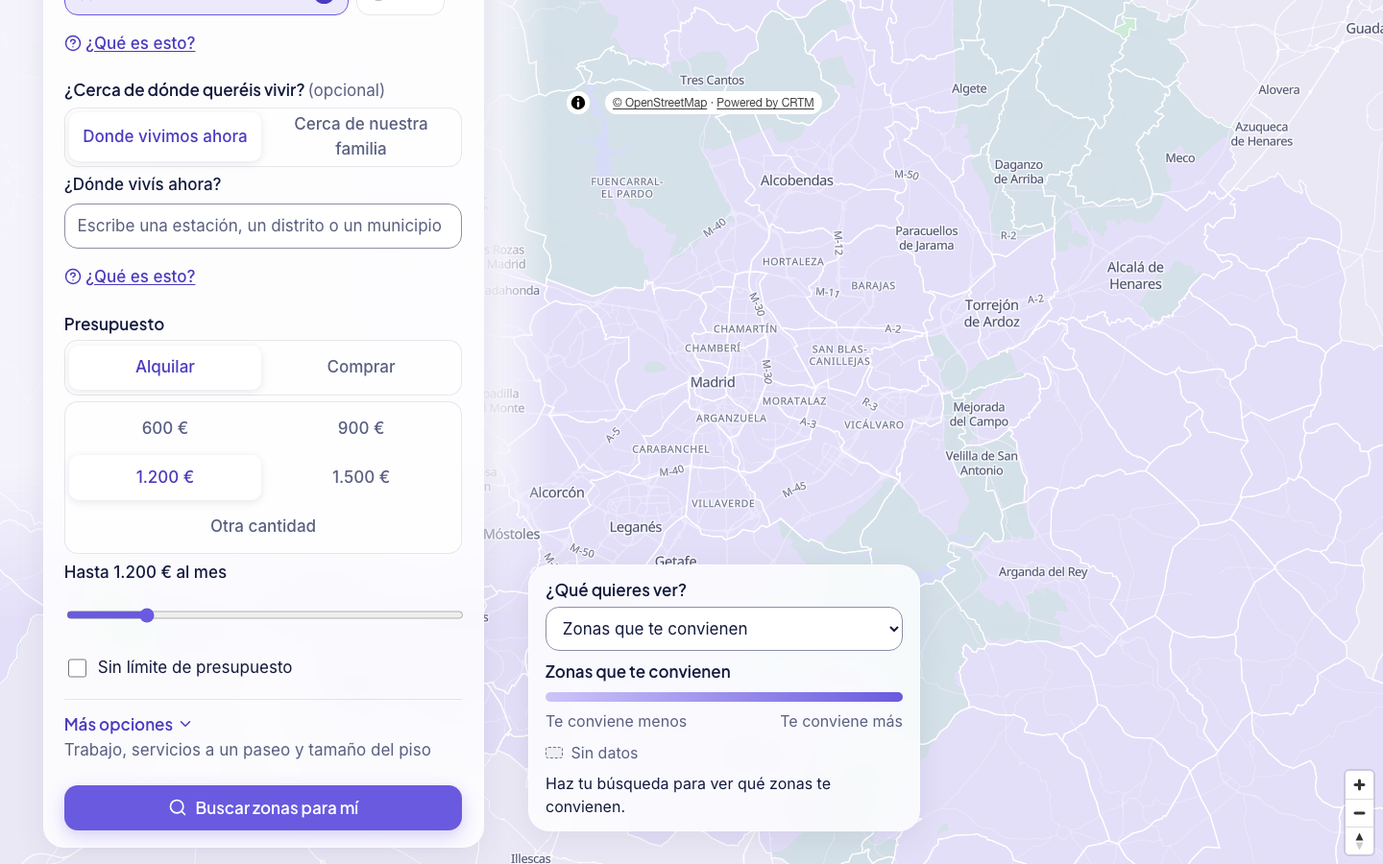
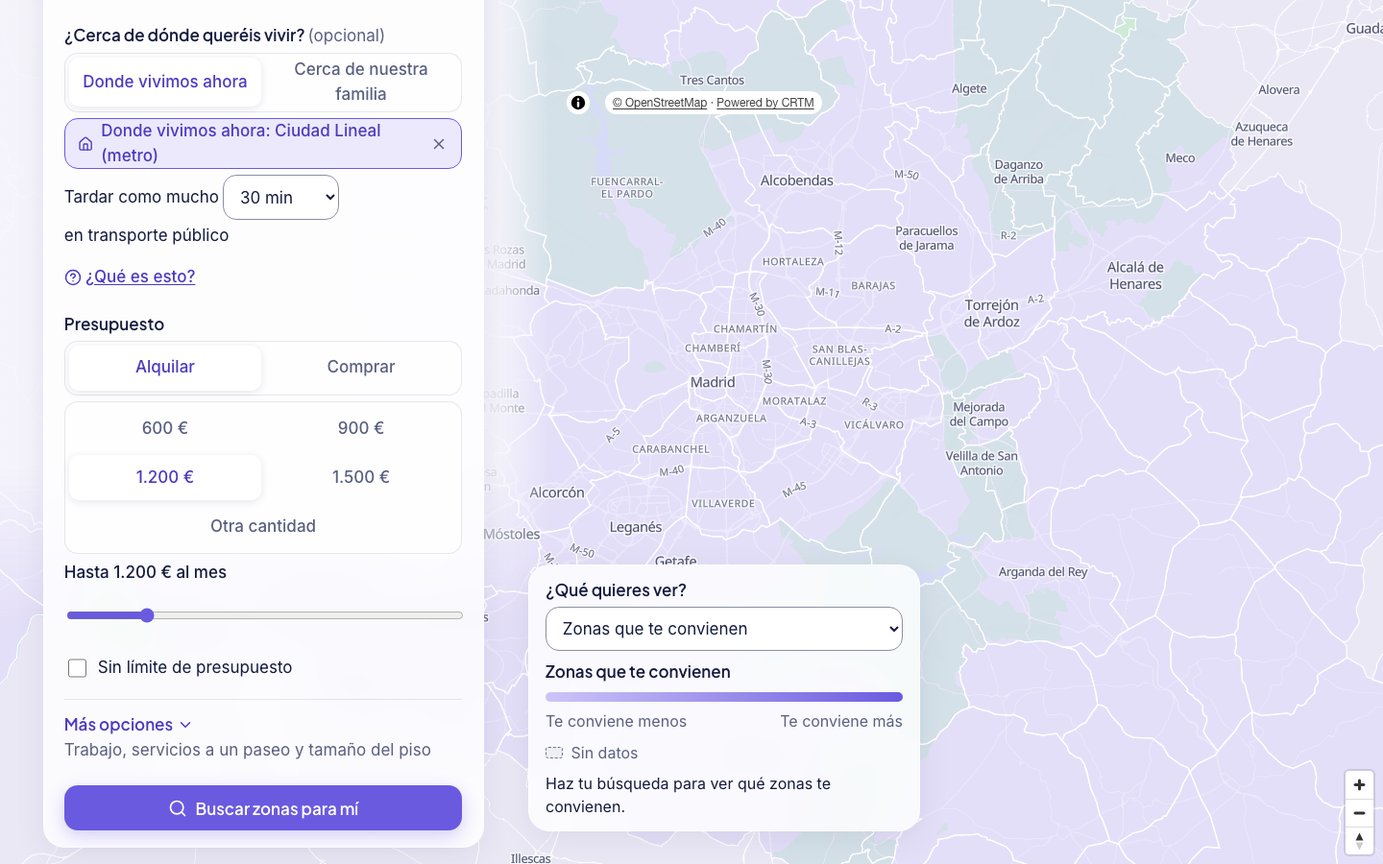
Confirmation review of #79 (H1-H7): «Somos mayores» unmarked cleanly, the card by the search
- H1: unmarking «Somos mayores» takes «donde vivimos ahora» (the `other` place only this flow
  makes) away, so it never filters unseen; a family place, Madrid capital and the three
  priorities stay, in view. Tests.
- H2, H3: a family place keeps its station's name through a change of option and a new mount;
  removing the place keeps the option.
- H4: J5 checks what the person sees: «Somos mayores» marked, «¿Cerca de dónde queréis vivir?»
  with «Ciudad Lineal (metro)» and «Trabajo en» folded.
- H5: the card orders its rows by the household of the search, the one the list answers to.
- H6: check-ux-mobile.mjs measures the «Somos mayores» form with a place picked, with axe.
- H7: «donde vivimos ahora» in lower case, as the API says it mid-sentence; the two option
  groups no longer repeat their question; D-244 says what unmarking keeps and takes away.

e2e 86/86 and 62/62 against the build, axe 0, 0 texts under 16 px and 0 targets under 44 px
at 390 and 360 px, golden 10/10.

diff --git a/apps/web/src/components/search/PlaceField.tsx b/apps/web/src/components/search/PlaceField.tsx
@@ -49,6 +49,8 @@ const TEXT = {
   // lugar.* (D-244): «Somos mayores» is asked where they want to live, in place of «Trabajo en»
   older: {
     title: "¿Cerca de dónde queréis vivir?",
+    // The name of the two options, not the question again (review H7 of PR #79)
+    which: "Vuestra casa de ahora o vuestra familia",
     options: { other: "Donde vivimos ahora", family: "Cerca de nuestra familia" } satisfies Record<OlderPlaceKind, string>,
     search: { other: "¿Dónde vivís ahora?", family: "¿Dónde vive vuestra familia?" } satisfies Record<OlderPlaceKind, string>,
     help: "Miramos cuánto se tarda en transporte público hasta ese sitio, llegando a las 9:00 de un día laborable, y contamos el trayecto como si fuerais 3 días a la semana. Ponemos 30 min como mucho: puedes cambiarlo o quitarlo.",
@@ -176,10 +178,14 @@ interface PickedProps {
   onRemove: () => void;
 }
 
+/** «donde vivimos ahora», the label the API puts inside a sentence, at the start of its own line. */
+const capitalised = (text: string) => text.charAt(0).toUpperCase() + text.slice(1);
+
 /** The place picked, with its selectors: the days (work only) and its limit, which applies whatever the days. */
 function PickedPlace({ kind, anchor, placeName, removeRef, onRemove }: PickedProps) {
   const Icon = KINDS[kind].icon;
-  const name = placeName && placeName !== anchor.label ? `${anchor.label}: ${placeName}` : anchor.label;
+  const label = capitalised(anchor.label);
+  const name = placeName && placeName !== anchor.label ? `${label}: ${placeName}` : label;
   return (
     <>
       <p className={styles.place}>
@@ -378,8 +384,11 @@ export function OlderPlaceField({ stationList, id: fieldId }: { stationList: Sta
   // Which of the two before a place is picked; then, the kind of the place
   const [chosen, setChosen] = useState<OlderPlaceKind>("other");
   const kind = current?.kind ?? chosen;
-  // The name of the place picked, kept to show it beside «Donde vivimos ahora» and to name the family's
-  const [placeName, setPlaceName] = useState<string | null>(null);
+  // The name of the place picked, to show it beside «Donde vivimos ahora» and to name the family's.
+  // A family place carries it as its label, so it survives a change of option, a new mount and the
+  // example (review H2 of PR #79); the field only has to remember it for «Donde vivimos ahora»
+  const [pickedName, setPickedName] = useState<string | null>(null);
+  const placeName = current?.kind === "family" ? current.anchor.label : pickedName;
   const { input, remove, focusNext } = useSwapFocus(current?.anchor ?? null);
 
   return (
@@ -388,11 +397,12 @@ export function OlderPlaceField({ stationList, id: fieldId }: { stationList: Sta
         {TEXT.older.title} <span className={styles.optional}>{TEXT.optional}</span>
       </legend>
       <Segmented
-        legend={TEXT.older.title}
+        legend={TEXT.older.which}
         value={kind}
         options={(["other", "family"] as const).map((value) => ({ value, label: TEXT.older.options[value] }))}
         onChange={(next) => {
           setChosen(next);
+          setPickedName(placeName);
           if (current) update((s) => setOlderPlaceKind(s, next, placeName ?? TEXT.older.family));
         }}
       />
@@ -404,8 +414,10 @@ export function OlderPlaceField({ stationList, id: fieldId }: { stationList: Sta
           removeRef={remove}
           onRemove={() => {
             focusNext("input");
-            setPlaceName(null);
-            update((s) => setOlderPlace(s, kind, null));
+            // The option stays where it was (review H3 of PR #79)
+            setChosen(current.kind);
+            setPickedName(null);
+            update((s) => setOlderPlace(s, current.kind, null));
           }}
         />
       ) : (
@@ -421,7 +433,7 @@ export function OlderPlaceField({ stationList, id: fieldId }: { stationList: Sta
             inputRef={input}
             onPick={(place) => {
               focusNext("remove");
-              setPlaceName(place.label);
+              setPickedName(place.label);
               update((s) => setOlderPlace(s, kind, place));
             }}
           />

diff --git a/apps/web/src/lib/__tests__/scenario.test.ts b/apps/web/src/lib/__tests__/scenario.test.ts
@@ -510,14 +510,27 @@ describe("«Somos mayores» (D-244)", () => {
     expect("seniors" in (back.household ?? {})).toBe(false);
     expect(back.household).toEqual(defaultScenario().household);
     expect(back.priorities).toEqual(["salud", "sin_escaleras", "transporte"]);
+    expect(back.scope).toBe("madrid");
     expect(isOlderHousehold(defaultScenario())).toBe(false);
+  });
+
+  // Review H1 of PR #79: no field shows «Donde vivimos ahora» without «Somos mayores», so it must not filter unseen
+  it("unmarked, takes «Donde vivimos ahora» away and keeps a family place and a work place, which other fields show", () => {
+    const station = { label: "Ciudad Lineal (metro)", lon: -3.63816, lat: 40.43805 };
+    const home = setOlderPlace(setOlderHousehold(setAdults(defaultScenario(), 2), true), "other", station);
+    expect(setOlderHousehold(home, false).anchors).toEqual([]);
+    const family = setOlderPlace(setOlderHousehold(defaultScenario(), true), "family", station);
+    expect(setOlderHousehold(family, false).anchors?.map((a) => a.kind)).toEqual(["family"]);
+    const working = setPlace(home, "work", station);
+    expect(setOlderHousehold(working, false).anchors?.map((a) => a.kind)).toEqual(["work"]);
   });
 
   it("asks where they want to live: where they live now (never its own name) or near their family, 30 min and 3 days", () => {
     const station = { label: "Ciudad Lineal (metro)", lon: -3.63816, lat: 40.43805 };
     const home = setOlderPlace(defaultScenario(), "other", station);
     expect(olderPlace(home)).toEqual({ kind: "other", anchor: { kind: "other", label: HOME_LABEL, lon: station.lon, lat: station.lat, max_minutes: 30, days_per_week: 3 } });
-    expect(HOME_LABEL).toBe("Donde vivimos ahora");
+    // Lower case: the API says it inside a sentence («… hasta donde vivimos ahora, llegando a las 9:00»)
+    expect(HOME_LABEL).toBe("donde vivimos ahora");
     const family = setOlderPlace(home, "family", station);
     expect(family.anchors).toEqual([{ kind: "family", label: "Ciudad Lineal (metro)", lon: station.lon, lat: station.lat, ...OLDER_TRIP }]);
     // One place: the other kind takes the same point, and keeps a limit the person changed

diff --git a/apps/web/src/lib/scenario.ts b/apps/web/src/lib/scenario.ts
@@ -104,13 +104,16 @@ export const OLDER_PRIORITIES: readonly PriorityKey[] = ["salud", "sin_escaleras
  * looked after, `seniors_in_care`). Marked, OLDER_PRIORITIES join what matters, after what was
  * already marked, and a search of the whole region with no place to go starts in Madrid capital
  * (without a place, small well-served villages would come first, D-243 §13). Unmarked, the field
- * leaves the scenario, as it was before; what it marked stays, in view, for the person to change.
+ * leaves the scenario, as it was before, and so does «Donde vivimos ahora» (an `other` place only
+ * this flow makes, which no field shows without it: it would filter unseen, review H1 of PR #79).
+ * What stays, in view for the person to change: Madrid capital, what it marked and a family place,
+ * which «Más opciones» shows.
  */
 export function setOlderHousehold(s: ScenarioState, on: boolean): ScenarioState {
   const home = { ...household(s) };
   if (!on) {
     delete home.seniors;
-    return { ...s, household: home };
+    return { ...s, household: home, anchors: (s.anchors ?? []).filter((a) => kindOf(a) !== "other") };
   }
   const priorities = s.priorities ?? [];
   const older: ScenarioState = {
@@ -435,7 +438,8 @@ export function retiredExampleScenario(): ScenarioState {
  * a place they go to often.
  */
 export type OlderPlaceKind = "other" | "family";
-export const HOME_LABEL = "Donde vivimos ahora";
+/** Lower case: the API says it inside a sentence («27 min en transporte público hasta donde vivimos ahora…», H7) */
+export const HOME_LABEL = "donde vivimos ahora";
 export const OLDER_TRIP = { max_minutes: 30, days_per_week: 3 } as const;
 
 /** The place of «¿Cerca de dónde queréis vivir?», if the search has one. */

diff --git a/apps/web/src/components/zone/ZoneCard.tsx b/apps/web/src/components/zone/ZoneCard.tsx
@@ -90,7 +90,7 @@ function statusLines(rows: readonly RowStatus[]): [string, string][] {
 export default function ZoneCard({ zone, mode, onClose }: Props) {
   const { level, code, name, municipio_name, zone_key } = zone;
   const titleId = useId();
-  const { result, available, stale, scenario } = useScenario();
+  const { result, available, stale } = useScenario();
   const isBarrio = level === "barrio";
   const gapsOf = screenZone(zone);
   const gaps = useZoneGaps(gapsOf.level, gapsOf.code);
@@ -102,8 +102,9 @@ export default function ZoneCard({ zone, mode, onClose }: Props) {
   // D-234: the approximate price, in the head; none without a price (the search's notice says why)
   const price = result ? zonePriceOf(result, zone_key) : null;
   const rows = gaps.data?.data.rows ?? [];
-  // The three rows in view: what matters to the household first, then what is missing (D-244, review of PR #79)
-  const shown = topRows(rows, 3, scenario.household);
+  // The three rows in view: what matters to the household of the search first, the one the list
+  // answers to, then what is missing (D-244, review H5 of PR #79); before a search, by status
+  const shown = topRows(rows, 3, result?.scenario.household ?? null);
   // A zone that fits everything asked, with FALTA or JUSTO rows: one line says both are true, with
   // every such row of the API, also those beyond the three the card shows. Not for a barrio: its
   // rows are the whole district's, and the line says «aquí»

diff --git a/apps/web/src/components/search/BudgetField.tsx b/apps/web/src/components/search/BudgetField.tsx
@@ -14,6 +14,8 @@ import styles from "./SearchCard.module.css";
 // Copy from pitch/textos_web.md (presupuesto.*)
 const TEXT = {
   title: "Presupuesto",
+  // The two options' own name, not «Presupuesto» again (review H7 of PR #79)
+  kind: "¿Alquilar o comprar?",
   rent: "Alquilar",
   buy: "Comprar",
   indicative: "Orientativo",
@@ -75,7 +77,7 @@ export default function BudgetField({ available }: { available: boolean }) {
     <fieldset className={styles.group}>
       <legend>{TEXT.title}</legend>
       <Segmented
-        legend={TEXT.title}
+        legend={TEXT.kind}
         value={budget?.kind ?? null}
         options={[
           { value: "rent", label: TEXT.rent },

diff --git a/docs/00_index/01_decisions_log.md b/docs/00_index/01_decisions_log.md
@@ -1979,19 +1979,20 @@ Prueba en persona del 15 nov con una persona mayor, en el móvil: «difícil de 
 1. **Qué es.** `Household.seniors: bool = False`, «Every adult is 65+ («Somos mayores»)». Dice quiénes son los adultos del hogar (1 o 2 personas de 65 años o más). **No suma personas:** el hogar sigue siendo el de «Solo/a» o «En pareja», con sus m² (D-214: 61 o 68 m²). Es distinto de `seniors_in_care`, que sí cuenta a una persona mayor que vive con el hogar y a la que se cuida («Con una persona mayor a la que cuidas»).
 2. **El flujo de la web** («Somos mayores» es un botón más de «¿Quién va a vivir en la casa?», con la línea «Para personas de 65 años o más. Elige también si vives solo/a o en pareja.»). Al marcarlo:
    - **Lugar.** En lugar de «Trabajo en», el formulario pregunta, a la vista y no plegado, «¿Cerca de dónde queréis vivir? (opcional)», con dos opciones y el mismo buscador de sitios que el trabajo:
-     - «Donde vivimos ahora»: un lugar `kind: other` con la etiqueta «Donde vivimos ahora», nunca el nombre del sitio elegido;
+     - «Donde vivimos ahora»: un lugar `kind: other` con la etiqueta «donde vivimos ahora», en minúscula porque la API la dice a media frase («27 min en transporte público hasta donde vivimos ahora, llegando a las 9:00»), y nunca el nombre del sitio elegido;
      - «Cerca de nuestra familia»: un lugar `kind: family` con el nombre del sitio.
      Va con `max_minutes: 30` («Tardar como mucho», que se puede cambiar o quitar) y `days_per_week: 3`, así que el trayecto pesa como el de un sitio al que se va a menudo y los topes de D-243 se cuentan sobre esos 30 min. «Trabajo en» pasa, plegado, a «Más opciones», y «Cerca de mi familia o amigos» no sale (la familia ya está en la pregunta).
    - **Ámbito por defecto.** Si no hay ningún sitio y «¿Dónde?» está en «Toda la Comunidad», pasa a «Madrid capital» (`scope: madrid`). Se puede cambiar, y nunca pisa una elección. Sin sitio, en toda la Comunidad salían arriba pueblos pequeños bien dotados (D-243 §13: con el ejemplo anterior, 155 zonas y Anchuelo y Morata de Tajuña al 98 %).
    - **Preelegidos,** detrás de lo que ya hubiera y en este orden: «Centro de salud» (`salud`), «Metro o tren sin escaleras» (`sin_escaleras`) y «Transporte» (`transporte`). Todos se pueden quitar.
    - **Sin aviso de trabajo:** la lista no enseña «¿Trabajas fuera de casa? Dinos dónde…» (`resultados.sin_lugar`), y el aviso de empate dice «… o elige cerca de dónde queréis vivir…» en lugar de «… o dónde trabajas…».
-   - **Tarjeta (R-01, y la regla de «lo que le falta que le afecte» de la entrega 2, adelantada por Mariano).** «Lo que le falta a esta zona» enseña primero las filas que importan al hogar, sea cual sea su estado, y después el estado (`householdRows` y `topRows` en `lib/gaps.ts`, con el hogar del formulario). Las filas del hogar son las de `highlight_rows` (el `gap_highlights` de `/search`), sin la de vivienda: escuela infantil con un hijo de 0 a 2 años (o sin edades), colegio con hijos, centro de salud y farmacia siempre, y centros de mayores con `seniors` o `seniors_in_care`. Entre ellas va primero lo que falta (FALTA, luego JUSTO) y después el orden del hogar; una «No comparable» del hogar va antes que cualquier otra fila y se enseña tal cual. Las demás filas solo rellenan si quedan menos de 3 del hogar con dato, por estado, y las de niños nunca rellenan en un hogar sin hijos. Vale para todos los hogares. Así, en Barajas, la 1.ª del ejemplo, una pareja jubilada ve centro de salud (No comparable), farmacias (CUBIERTO) y centros de mayores (No comparable), y no «Colegios · JUSTO» ni escuelas infantiles; una familia con un bebé sigue viendo arriba la escuela infantil; y una pareja sin hijos no la ve aunque sea la FALTA de la zona. La lista completa sigue en «Ver todo lo que falta». En el dominio, `highlight_rows` pone los centros de mayores delante con `seniors`; la tarjeta usa la misma regla, pero ordena las filas de `/gaps` de cualquier zona, también las que no están en la lista.
+   - **Tarjeta (R-01, y la regla de «lo que le falta que le afecte» de la entrega 2, adelantada por Mariano).** «Lo que le falta a esta zona» enseña primero las filas que importan al hogar, sea cual sea su estado, y después el estado (`householdRows` y `topRows` en `lib/gaps.ts`, con el hogar de la búsqueda, `result.scenario.household`, para que la tarjeta y la lista respondan al mismo hogar; antes de buscar, por estado, como siempre). Las filas del hogar son las de `highlight_rows` (el `gap_highlights` de `/search`), sin la de vivienda: escuela infantil con un hijo de 0 a 2 años (o sin edades), colegio con hijos, centro de salud y farmacia siempre, y centros de mayores con `seniors` o `seniors_in_care`. Entre ellas va primero lo que falta (FALTA, luego JUSTO) y después el orden del hogar; una «No comparable» del hogar va antes que cualquier otra fila y se enseña tal cual. Las demás filas solo rellenan si quedan menos de 3 del hogar con dato, por estado, y las de niños nunca rellenan en un hogar sin hijos. Vale para todos los hogares. Así, en Barajas, la 1.ª del ejemplo, una pareja jubilada ve centro de salud (No comparable), farmacias (CUBIERTO) y centros de mayores (No comparable), y no «Colegios · JUSTO» ni escuelas infantiles; una familia con un bebé sigue viendo arriba la escuela infantil; y una pareja sin hijos no la ve aunque sea la FALTA de la zona. La lista completa sigue en «Ver todo lo que falta». En el dominio, `highlight_rows` pone los centros de mayores delante con `seniors`; la tarjeta usa la misma regla, pero ordena las filas de `/gaps` de cualquier zona, también las que no están en la lista.
+   - **Al desmarcarlo** se quitan `seniors` y el lugar «donde vivimos ahora» (`kind: other`, que solo crea este flujo y que ningún campo enseña sin «Somos mayores»: filtraría sin verse, revisión H1 del PR #79). Se quedan, a la vista y para que la persona los cambie: «Madrid capital», las tres prioridades y un lugar de la familia, que pasa a «Cerca de mi familia o amigos» en «Más opciones».
    - **Ejemplo de la portada:** «Ejemplo: pareja jubilada que quiere vivir cerca de su familia»: 2 personas, «Somos mayores», alquiler hasta 1.200 € al mes, «Cerca de nuestra familia» en Ciudad Lineal (la estación de metro de `/api/v1/places`, un sitio público; nunca una dirección particular), 30 min como mucho, 3 días, «Madrid capital» y los tres preelegidos. Con la API `fit-0.9` sobre `housing` (15 nov, solo lectura) salen **22 de los 131 barrios**, de Alameda de Osuna y Casco Histórico de Barajas (92 %) a Ventas, Pueblo Nuevo, Quintana y San Pascual (89 %), Arcos y Rosas (87 %)…; lo que más limita es el trayecto, y «Sin límite de tiempo hasta Ciudad Lineal (metro)» añade 62.
 3. **Qué no hace.**
    - No cambia el % ni el orden por sí solo: ningún criterio ni condición lee el campo. Un test lo comprueba: la misma búsqueda con y sin `seniors` da las mismas zonas, los mismos % y los mismos recuentos de «¿Quieres ver más zonas?». Lo que cambia los resultados es lo que el flujo marca (el sitio, el ámbito y las prioridades), y todo se ve y se puede cambiar en el formulario.
    - No cambia los m², el precio ni los hechos de la tarjeta.
    - No marca la farmacia ni «Lo quiero a un paseo»: «¿Qué quieres tener cerca?» no tiene farmacia y un servicio a un paseo entra como «Solo zonas que lo tengan», es decir, como filtro. Que la farmacia ordene o filtre es una decisión aparte (auditoría, opción 3).
    - No es una etiqueta sobre la persona ni infiere nada de ella (CLAUDE.md §13): es una respuesta que la persona da y puede quitar. «Donde vivimos ahora» no se guarda ni se envía con nombre.
-4. **Contrato.** Aditivo: una búsqueda guardada o compartida antes significa lo mismo (`seniors: false`). La respuesta de `/search` lo devuelve dentro de `scenario`. Una API anterior rechaza el campo (`extra="forbid"`): la web y la API van en el mismo despliegue, como siempre. `kind: other` ya existía en `AnchorKind`.
+4. **Contrato.** Aditivo (el ejemplo y el lugar usan `kind: family` y `kind: other`, que ya existían): una búsqueda guardada o compartida antes significa lo mismo (`seniors: false`). La respuesta de `/search` lo devuelve dentro de `scenario`. Una API anterior rechaza el campo (`extra="forbid"`): la web y la API van en el mismo despliegue, como siempre. `kind: other` ya existía en `AnchorKind`.
 5. **Golden.** `golden_senior` no usa el campo y no cambia: `scripts/golden_search.py`, 10 de 10 contra `housing` en solo lectura.
 6. **Cómo volver atrás:** revertir el PR. Sin el campo, la única opción de mayores vuelve a ser la de cuidar a una persona mayor («Con una persona mayor a la que cuidas», antes «Con mayores a cargo»).

diff --git a/pitch/textos_web.md b/pitch/textos_web.md
@@ -251,8 +251,8 @@ Primer bloque de la tarjeta. Cuatro opciones excluyentes (radios nativos en 2 ×
 | `hogar.somos_mayores` | Somos mayores | **Nueva (15 nov, D-244).** La persona o la pareja tiene 65 años o más. No suma personas: va con «Solo/a» o «En pareja». Envía `household.seniors: true`. **Cambia (15 nov, revisión del PR #79).** Al marcarlo: se marcan «Centro de salud», «Metro o tren sin escaleras» y «Transporte», por este orden y detrás de lo que ya hubiera (todos se pueden quitar); en lugar de «Trabajo en» sale `lugar.titulo`, y «Trabajo en» pasa a «Más opciones»; si no hay ningún sitio y «¿Dónde?» está en «Toda la Comunidad», pasa a «Madrid capital» (se puede cambiar). No sale `resultados.sin_lugar` |
 | `hogar.somos_mayores.ayuda` | Para personas de 65 años o más. Elige también si vives solo/a o en pareja. | **Nueva.** Bajo los botones, solo con «Somos mayores» marcado |
 | `lugar.titulo` | ¿Cerca de dónde queréis vivir? (opcional) | **Nueva (15 nov, D-244, diseño de Mariano).** Solo con «Somos mayores», a la vista y donde estaba «Trabajo en». Dos opciones (`lugar.ahora`, `lugar.familia`) y el mismo buscador de sitios que el trabajo |
-| `lugar.ahora` | Donde vivimos ahora | Envía un lugar `kind: other` con la etiqueta «Donde vivimos ahora», nunca el nombre del sitio elegido (en la tarjeta: «27 min en transporte público hasta Donde vivimos ahora…»). En la línea del sitio elegido: «Donde vivimos ahora: Ciudad Lineal (metro)» |
-| `lugar.familia` | Cerca de nuestra familia | Envía un lugar `kind: family` con el nombre del sitio. Cambiar de opción con un sitio elegido conserva el punto y el límite |
+| `lugar.ahora` | Donde vivimos ahora | Envía un lugar `kind: other` con la etiqueta «donde vivimos ahora», en minúscula porque la API la dice a media frase («27 min en transporte público hasta donde vivimos ahora, llegando a las 9:00»), nunca el nombre del sitio elegido. En la línea del sitio elegido: «Donde vivimos ahora: Ciudad Lineal (metro)». Al desmarcar «Somos mayores», este lugar se quita (ningún campo lo enseña sin él); el de la familia se queda, en «Más opciones» |
+| `lugar.familia` | Cerca de nuestra familia | Envía un lugar `kind: family` con el nombre del sitio. Cambiar de opción con un sitio elegido conserva el punto, el límite y el nombre; al quitar el sitio, la opción no cambia. El grupo de las dos opciones se llama «Vuestra casa de ahora o vuestra familia», no repite la pregunta |
 | `lugar.buscar` | ¿Dónde vivís ahora? · ¿Dónde vive vuestra familia? | Etiqueta del buscador, según la opción |
 | `lugar.ayuda` | Miramos cuánto se tarda en transporte público hasta ese sitio, llegando a las 9:00 de un día laborable, y contamos el trayecto como si fuerais 3 días a la semana. Ponemos 30 min como mucho: puedes cambiarlo o quitarlo. | Tras «¿Qué es esto?». El lugar va con `max_minutes: 30` y `days_per_week: 3`; «Tardar como mucho» (`trabajo.max_min`) deja cambiarlo. El selector se llama «Tardar como mucho hasta donde vivimos ahora, en transporte público» o «… hasta mi familia o amigos, …» |
 | `hogar.contador.menos` | Quitar uno | `aria-label` del botón «−» |
@@ -535,7 +535,7 @@ Columna derecha tras buscar, mientras no hay una zona elegida. En el móvil va e
 | `zona.no_cumple` | No cumple todo lo que pides. | Si la API no nombra la condición que falla |
 | `zona.no_sabemos` | No lo sabemos: nos falta el dato para comprobar lo que pides. No lo damos por bueno. | Zona con alguna condición `UNKNOWN` |
 | `zona.encaje.antiguo` | Esto es de tu búsqueda anterior. | Tarjeta abierta tras cambiar la búsqueda (`resultados.cambiada`). **Cambia (15 nov, UX móvil 1).** Antes «Este encaje es de tu búsqueda anterior.» |
-| `zona.falta.titulo` | Lo que le falta a esta zona | Mini lista de 3 filas: primero las que importan al hogar (las de `highlight_rows` sin la de vivienda: escuela infantil con un hijo de 0 a 2 años, colegio con hijos, centro de salud y farmacia siempre, y centros de mayores con «Somos mayores» o con una persona mayor a la que se cuida), con lo que falta delante; las demás solo rellenan si quedan menos de 3 del hogar con dato, y las de niños nunca en un hogar sin hijos (`householdRows` y `topRows` en `lib/gaps.ts`, D-244). **Cambia (15 nov, revisión del PR #79).** **Cambia (15 nov, UX móvil 1).** Antes «Qué falta aquí» (auditoría §4 n.º 9). La pestaña sigue llamándose «Qué falta» |
+| `zona.falta.titulo` | Lo que le falta a esta zona | Mini lista de 3 filas: primero las que importan al hogar (las de `highlight_rows` sin la de vivienda: escuela infantil con un hijo de 0 a 2 años, colegio con hijos, centro de salud y farmacia siempre, y centros de mayores con «Somos mayores» o con una persona mayor a la que se cuida), con lo que falta delante; las demás solo rellenan si quedan menos de 3 del hogar con dato, y las de niños nunca en un hogar sin hijos (`householdRows` y `topRows` en `lib/gaps.ts`, D-244), con el hogar de la búsqueda, el mismo de la lista; antes de buscar, por estado. **Cambia (15 nov, revisión del PR #79).** **Cambia (15 nov, UX móvil 1).** Antes «Qué falta aquí» (auditoría §4 n.º 9). La pestaña sigue llamándose «Qué falta» |
 | `zona.falta.estados` | FALTA: hay claramente menos que en zonas parecidas. · JUSTO: hay algo menos que en zonas parecidas. · CUBIERTO: hay lo mismo o más que en zonas parecidas. · SIN DATOS: no tenemos el dato; no quiere decir que no haya. · No comparable: vive tan poca gente que no se puede comparar. · Junto con sus vecinos: es un pueblo pequeño: lo comparamos junto con los de al lado. | **Nueva (15 nov, UX móvil 1).** Bajo las filas de la tarjeta, una línea por cada etiqueta que sale en ellas (`GAP_STATUS[*].short`, `SMALL_ZONE.short`, `GROUP.short` en `lib/gaps.ts`). Antes, el significado solo estaba en un `title` (auditoría §3 A5) |
 | `zona.falta.ayuda` | Un servicio puede estar cerca y aun así ir lleno: aquí miramos si hay bastante para toda la gente de la zona. | Bajo `zona.falta.titulo`, siempre. «¿Qué quieres tener cerca?» y «Lo quiero a un paseo» miden minutos andando; «Qué falta», si alcanza para todos frente a zonas parecidas (2SFCA, D-217). **Cambia (15 nov, UX móvil 1).** Antes «Compara si hay bastante para toda la gente de la zona con lo que hay en zonas parecidas: algo puede estar cerca y aun así faltar.» (auditoría §4 n.º 31) |
 | `zona.cerca_pocas` | {Servicio} a unos {n} min andando, pero {hay pocas para tantos …}: por eso sale {FALTA \| JUSTO}. | **Nueva, 15 nov.** En «Qué falta aquí», encima de las filas, cuando la búsqueda encontró cerca un servicio (una condición de «Lo quiero a un paseo» que cumple o un hecho a pie de «Lo que tienes aquí»), a 15 min andando como mucho, que es lo que mide la fila (`fila.mide.*`), y su fila sale FALTA o JUSTO. Esa fila ya no se repite en `encaje.aviso_*` (revisión del PR #70): si era la única, la línea de aviso no sale. Ejemplo real, Puente de Vallecas con escuela infantil a 10 min como mucho: «Escuela infantil a unos 6 min andando, pero hay pocas para tantos niños: por eso sale FALTA.». **Cambia (15 nov, UX móvil 1).** Sin las edades (antes «… para tantos niños de 0 a 4 años …», auditoría §4 n.º 32). Las palabras de cada fila siguen a `fila.mide.*`: escuelas infantiles «hay pocas / van justas para tantos niños» (nadie publica sus plazas), colegios «hay pocas aulas / las aulas van justas para tantos niños», centros de salud «hay pocos / van justos para tanta gente», mayores «hay pocas plazas / las plazas van justas para tantas personas mayores», farmacias «hay pocas / van justas para tanta gente». En la tarjeta de un barrio, «pero en {distrito} …». No sale en filas «No comparable» ni «Junto con sus vecinos»: ese estado no es el de la zona sola. Solo texto: la fórmula no cambia (se revisa el 17-18 nov) |

diff --git a/evidence/gate-06/2026-11-15-ux-1/ux-movil-1.md b/evidence/gate-06/2026-11-15-ux-1/ux-movil-1.md
@@ -8,7 +8,7 @@ Rama `claude/s1-ux-mobile`, desde `0c6ce28` (producción con `fit-0.9`). Origen:
 node apps/web/scripts/check-ux-mobile.mjs --base http://localhost:3061 --out evidence/gate-06/2026-11-15-ux-1 --label despues --widths 390,360 --shots
 ```
 
-Para cada pantalla lista cada texto por debajo de 16 px y cada objetivo táctil por debajo de 44 px (alto o ancho), sin contar lo que solo es para el lector de pantalla. Una casilla o una opción cuenta por su etiqueta, que es lo que se toca. «Formulario abierto» es el formulario con todas sus ayudas y «Más opciones» desplegadas; «formulario con el ejemplo», el que deja el ejemplo de la familia (lugar de trabajo, días, límite, servicio a un paseo y contador). «Distrito» es la pantalla del distrito de esa tarjeta, con «Los barrios que más te convienen» para la misma búsqueda (revisión R-04; no se midió antes).
+Para cada pantalla lista cada texto por debajo de 16 px y cada objetivo táctil por debajo de 44 px (alto o ancho), sin contar lo que solo es para el lector de pantalla. Una casilla o una opción cuenta por su etiqueta, que es lo que se toca. «Formulario abierto» es el formulario con todas sus ayudas y «Más opciones» desplegadas; «formulario con el ejemplo», el que deja el ejemplo de la familia (lugar de trabajo, días, límite, servicio a un paseo y contador). «Distrito» es la pantalla del distrito de esa tarjeta, con «Los barrios que más te convienen» para la misma búsqueda (revisión R-04; no se midió antes). «Somos mayores» con un lugar elegido es el formulario con «En pareja», «Somos mayores» y la estación de Ciudad Lineal en «¿Dónde vivís ahora?», con el selector de minutos y «Quitar» (revisión H6).
 
 ## Antes y después (texto < 16 px · objetivos < 44 px)
 
@@ -21,6 +21,7 @@ Para cada pantalla lista cada texto por debajo de 16 px y cada objetivo táctil 
 | Lista | 36 · 0 | **0 · 0** | 36 · 0 | **0 · 0** |
 | Tarjeta | 25 · 1 | **0 · 0** | 25 · 1 | **0 · 0** |
 | Distrito (barrios) | — | **0 · 0** | — | **0 · 0** |
+| «Somos mayores» con un lugar elegido | — | **0 · 0** | — | **0 · 0** |
 
 - **Antes:** textos de 12,2 a 15,3 px: la banda («Encaja muy bien», 12,2), «por 77 m²» (12,8), «· Dato fiable» y FALTA/JUSTO/CUBIERTO (13,3), «Distrito de Madrid», «Empatan al 94 %» y «Probar así» (13,6), y las opciones, chips, ayudas y avisos (14,9). Objetivos: «Alquilar» y «Comprar» (38 px), «Ver las zonas en una lista» (39 px) y «Ver todo lo que falta» (24 px).
 - **Después:** el texto más pequeño mide 16 px en el escritorio y 16,9 px en el móvil (`--text-xs`); el cuerpo, 17 y 18 px. Todos los objetivos miden 44 px o más.
@@ -29,11 +30,11 @@ Para cada pantalla lista cada texto por debajo de 16 px y cada objetivo táctil 
 
 ## axe (WCAG 2.2 AA)
 
-0 incidencias después, a 390 y a 360 px, en la portada, el formulario abierto, la lista, la tarjeta y la pantalla del distrito (`tamanos-despues.json`, campo `axe`). Antes: 0 en la primera pasada y 1 `target-size` intermitente en la segunda (la línea «Para unos 77 m² (cámbialo)», que ya no existe).
+0 incidencias después, a 390 y a 360 px, en la portada, el formulario abierto, la lista, la tarjeta, la pantalla del distrito y el formulario de «Somos mayores» con un lugar (`tamanos-despues.json`, campo `axe`). Antes: 0 en la primera pasada y 1 `target-size` intermitente en la segunda (la línea «Para unos 77 m² (cámbialo)», que ya no existe).
 
 ## e2e contra la web compilada
 
-`infra/deploy/e2e/e2e_prod.mjs --base http://localhost:3061`: escritorio 1440 px **83/83**, móvil 390 px **59/59** (`e2e/e2e-report.json`). El recorrido nuevo J5 (revisión R-06) carga el ejemplo de los jubilados y comprueba que `/search` responde 200 con `household.seniors: true`, `salud`, `sin_escaleras` y `transporte`, `scope: madrid` y un lugar `family` de 30 min y 3 días; que el resumen da los barrios de la API y que no sale «¿Trabajas fuera de casa?»; y que el importe rápido de 900 € llega como `amount_eur: 900`. Los textos que comprueba se han adaptado sin quitar ninguna comprobación: el resumen («Hemos encontrado 42 zonas para ti.»), «Hemos mirado las 199 zonas…», el aviso del alquiler, «¿Quieres ver más zonas?» con las dos cifras de la API («saldrían 49 más: 91 zonas en total»), «Buscar zonas para mí» y el ejemplo de la familia por su nombre. En el móvil, el recorrido del mapa por filas toca antes «Ver el mapa», porque la portada abre ahora con la búsqueda.
+`infra/deploy/e2e/e2e_prod.mjs --base http://localhost:3061`: escritorio 1440 px **86/86**, móvil 390 px **62/62** (`e2e/e2e-report.json`). El recorrido nuevo J5 (revisión R-06) carga el ejemplo de los jubilados y comprueba que `/search` responde 200 con `household.seniors: true`, `salud`, `sin_escaleras` y `transporte`, `scope: madrid` y un lugar `family` de 30 min y 3 días; que el resumen da los barrios de la API y que no sale «¿Trabajas fuera de casa?»; que se ve «Somos mayores» marcado, «¿Cerca de dónde queréis vivir?» con «Ciudad Lineal (metro)» y «Trabajo en» plegado (revisión H4); y que el importe rápido de 900 € llega como `amount_eur: 900`. Los textos que comprueba se han adaptado sin quitar ninguna comprobación: el resumen («Hemos encontrado 42 zonas para ti.»), «Hemos mirado las 199 zonas…», el aviso del alquiler, «¿Quieres ver más zonas?» con las dos cifras de la API («saldrían 49 más: 91 zonas en total»), «Buscar zonas para mí» y el ejemplo de la familia por su nombre. En el móvil, el recorrido del mapa por filas toca antes «Ver el mapa», porque la portada abre ahora con la búsqueda.
 
 ## Golden y contrato
 
@@ -51,7 +52,7 @@ Para cada pantalla lista cada texto por debajo de 16 px y cada objetivo táctil 
 | Ejemplo «Pareja jubilada» | `04-ejemplo-pareja-jubilada-390.png` | `04-ejemplo-pareja-jubilada-360.png` | `04-ejemplo-pareja-jubilada-1440.png` |
 | Lista (ejemplo de la familia) | `05-lista-390.png` | `05-lista-360.png` | `05-lista-1440.png` |
 | Tarjeta (la 1.ª de la lista) | `06-tarjeta-390.png` | `06-tarjeta-360.png` | `06-tarjeta-1440.png` |
-| «Somos mayores»: «¿Cerca de dónde queréis vivir?» | `03b-somos-mayores-lugar-390.png` | `03b-somos-mayores-lugar-360.png` | `03b-somos-mayores-lugar-1440.png` |
+| «Somos mayores»: «¿Cerca de dónde queréis vivir?», con un lugar elegido | `03b-somos-mayores-lugar-390.png` | `03b-somos-mayores-lugar-360.png` | `03b-somos-mayores-lugar-1440.png` |
 | Tarjeta del ejemplo de los jubilados («Lo que le falta…») | `04b-tarjeta-pareja-jubilada-390.png` | `04b-tarjeta-pareja-jubilada-360.png` | `04b-tarjeta-pareja-jubilada-1440.png` |
 | «Cómo lo calculamos» (desempate y ejemplo real) | `07-como-lo-calculamos-390.png` | `07-como-lo-calculamos-360.png` | `07-como-lo-calculamos-1440.png` |
 | Distrito: «Los barrios que más te convienen» | `08-distrito-barrios-390.png` | `08-distrito-barrios-360.png` | `08-distrito-barrios-1440.png` |
